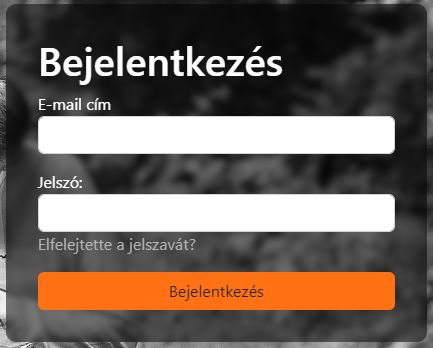
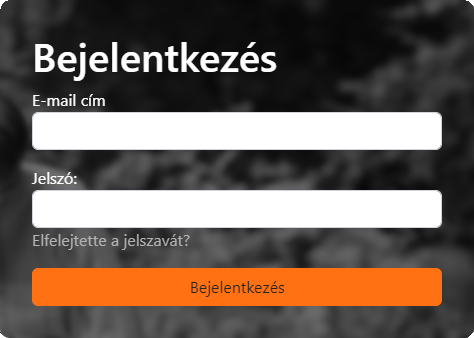
haladunk a hogyan kezdj nekivel már reszponziv

diff --git a/Csaladom-Emleke/src/components/howtostart.vue b/Csaladom-Emleke/src/components/howtostart.vue
@@ -2,18 +2,19 @@
   <p class="cim m-0 p-0">
     <h1>Hogyan kezdj neki</h1>
   </p>
-  <div class=" mb-3 row m-0">
+  <div class="mb-3 row m-0">
     <span class="col-1"></span>
-    <div class="col-5 p-0"><img src="../assets/regisztracio.png" alt=""></div>
-    <p class="p-0 col">Az első lépés a regisztráció! Regisztráció során ha megadja a szülei nevét akkor ők már rögtön bekerülnek a családfájába.</p>
+    <div class="col-lg-5 col-sm-12 p-3"><img src="../assets/regisztracio.png" alt=""></div>
+    <p class="p-3 col m-auto">Az első lépés a regisztráció! Regisztráció során, ha megadja a szülei nevét, akkor ők már rögtön bekerülnek a családfájába.</p>
   </div>
   <div class="mb-3 row m-0">
-    <p class="p-0 col-4">Lorem ipsum dolor sit amet consectetur adipisicing elit. Temporibus, aperiam reprehenderit. Quas, dolores a necessitatibus itaque dolore eligendi sunt ipsam reiciendis quisquam, beatae impedit totam quaerat eveniet inventore ad nemo.</p>
-    <div class="p-0 col"><img src="../assets/harmadik.jpg" alt=""></div>
+    <p class="p-3 col m-auto">A regisztráció után, be kell jelentkeznünk a megadott e-mail címmel és jelszóval.</p>
+    <div class="p-3 col-lg-5 col-sm-12"><img src="../assets/bejelentkezes.png" alt=""></div>
   </div>
   <div class="mb-3 row m-0">
-    <div class="p-0 col-8"><img src="../assets/negyedik.jpg" alt=""></div>
-    <p class="p-0 col">Lorem ipsum dolor sit amet consectetur adipisicing elit. Tempora est quam culpa eum? Iure culpa fuga nihil ad ea consectetur quo voluptatem reiciendis doloribus eius quam, recusandae quia minus quisquam.</p>
+    <span class="col-lg-1"></span>
+    <div class="p-3 col-lg-5 col-sm-12"><img src="../assets/Csaladfa.png" alt=""></div>
+    <p class="p-3 col m-auto">Bejelentkezés után már hozzá is férünk a saját családfánkhoz.</p>
   </div>
 </template>
 
@@ -26,6 +27,29 @@
     border: 1px solid black;
     color: black;
     padding: 0;
+}
+
+
+p{
+  text-align: center;
+  color: aliceblue;
+  font-size: xx-large;
+  font-weight: 100;
+  font-family: Cambria, Cochin, Georgia, Times, 'Times New Roman', serif;
+  font-style: normal;
+  font-display: inherit;
+  font-variant: inherit;
+  font-feature-settings: "qwid";
+  font-variant-ligatures: contextual;
+  font-kerning: auto;
+  letter-spacing: 0.1rem;
+}
+div{
+  background-color: brown;
+}
+img{
+  width: 100%;
+  border-radius: 10px;
 }
 
 
